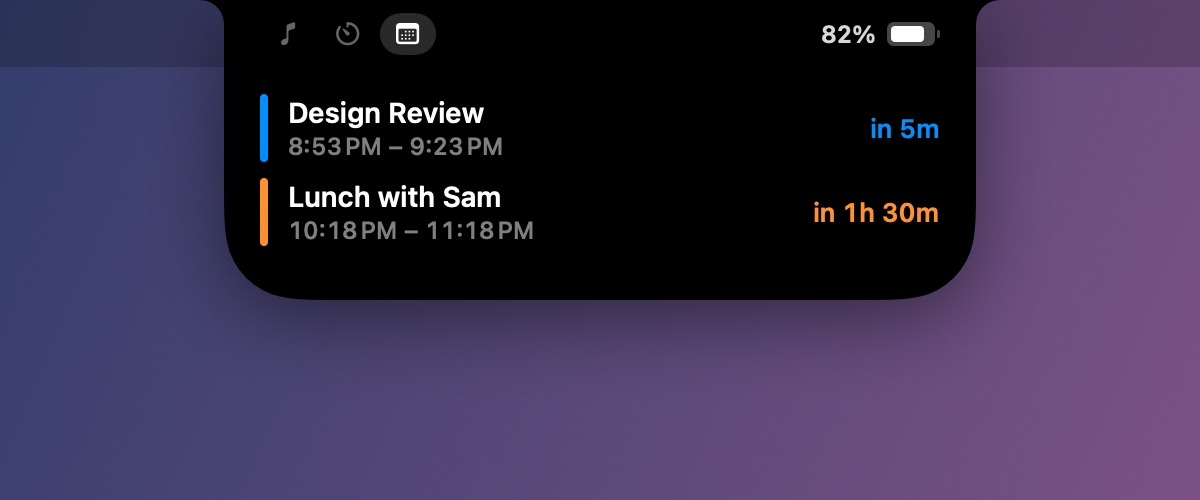
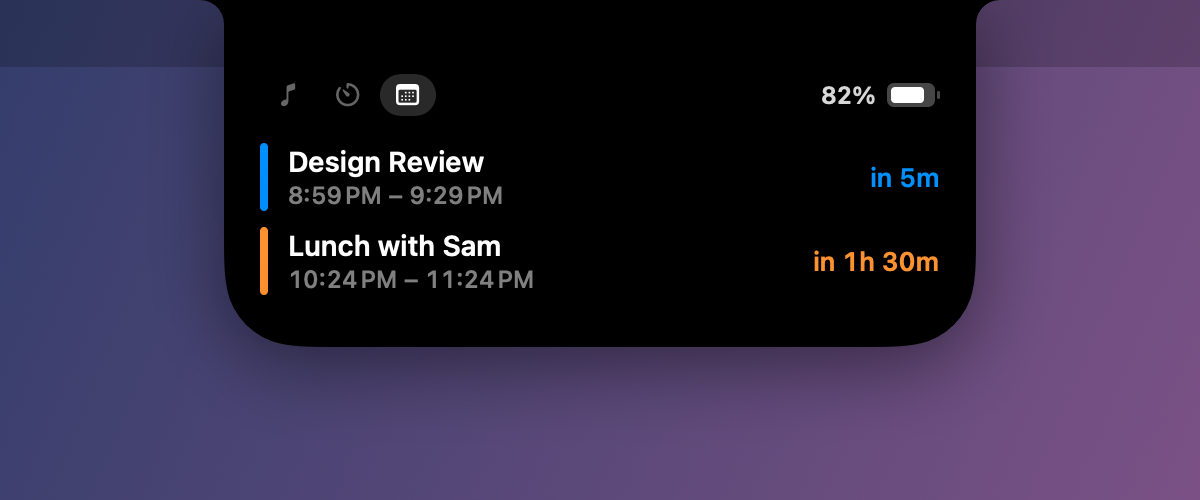
Fix notch collisions; add floating pill style and two build variants
Expanded content now sits fully below the notch (the title and third tab
were colliding with it). New floating pill style for Macs without a
notch. make release builds DynamicIsland-Notch.zip and
DynamicIsland-NoNotch.zip.

diff --git a/Sources/DynamicIsland/App/IslandController.swift b/Sources/DynamicIsland/App/IslandController.swift
@@ -49,6 +49,9 @@ final class IslandController {
         reposition()
         panel.orderFrontRegardless()
 
+        NotificationCenter.default.addObserver(forName: Prefs.didChange, object: nil, queue: .main) { [weak self] _ in
+            self?.reposition()
+        }
         NotificationCenter.default.addObserver(forName: NSApplication.didChangeScreenParametersNotification,
                                                object: nil, queue: .main) { [weak self] _ in
             self?.reposition()
@@ -73,13 +76,14 @@ final class IslandController {
 
     /// The built-in (notched) display wins; otherwise the main display.
     private func preferredScreen() -> NSScreen? {
-        NSScreen.screens.first { $0.safeAreaInsets.top > 0 } ?? NSScreen.main ?? NSScreen.screens.first
+        if Prefs.pillStyle { return NSScreen.main ?? NSScreen.screens.first }
+        return NSScreen.screens.first { $0.safeAreaInsets.top > 0 } ?? NSScreen.main ?? NSScreen.screens.first
     }
 
     private func reposition() {
         guard let screen = preferredScreen() else { return }
         self.screen = screen
-        viewModel.geometry = NotchGeometry(screen: screen)
+        viewModel.geometry = Prefs.pillStyle ? .pill(on: screen) : NotchGeometry(screen: screen)
         let f = screen.frame
         let size = Self.panelSize
         panel.setFrame(NSRect(x: f.midX - size.width / 2,
@@ -93,8 +97,10 @@ final class IslandController {
         guard let screen else { return nil }
         let f = screen.frame
         let size = viewModel.size
-        var rect = NSRect(x: f.midX - size.width / 2, y: f.maxY - size.height,
-                          width: size.width, height: size.height + 2) // +2: include the very top pixel row
+        let inset = viewModel.geometry.topInset
+        var rect = NSRect(x: f.midX - size.width / 2, y: f.maxY - inset - size.height,
+                          width: size.width, height: size.height + inset + 2) // reach the top edge
+        if !viewModel.isVisible { rect = rect.insetBy(dx: -40, dy: 0) } // hidden pill: easier to find
         rect = viewModel.isExpanded ? rect.insetBy(dx: -4, dy: -4) : rect.insetBy(dx: -10, dy: -6)
         return rect
     }
@@ -114,14 +120,25 @@ final class IslandController {
 }
 
 struct NotchGeometry: Equatable {
+    /// With a notch: the camera housing. Without: the resting size of the floating pill.
     var notchSize: CGSize
+    /// true = attached to the hardware notch. false = free-floating pill (iPhone style).
     var hasNotch: Bool
+    /// Gap between the top of the screen and the island (pill style only).
+    var topInset: CGFloat = 0
 
-    static let fallback = NotchGeometry(notchSize: CGSize(width: 185, height: 32), hasNotch: false)
+    static let pillSize = CGSize(width: 56, height: 30)
+    static let fallback = NotchGeometry(notchSize: pillSize, hasNotch: false, topInset: 5)
 
-    init(notchSize: CGSize, hasNotch: Bool) {
+    init(notchSize: CGSize, hasNotch: Bool, topInset: CGFloat = 0) {
         self.notchSize = notchSize
         self.hasNotch = hasNotch
+        self.topInset = topInset
+    }
+
+    /// Floating pill. On a notched screen it sits just below the notch.
+    static func pill(on screen: NSScreen) -> NotchGeometry {
+        NotchGeometry(notchSize: pillSize, hasNotch: false, topInset: screen.safeAreaInsets.top + 5)
     }
 
     init(screen: NSScreen) {
@@ -130,9 +147,7 @@ struct NotchGeometry: Equatable {
             notchSize = CGSize(width: screen.frame.width - left.width - right.width, height: top)
             hasNotch = true
         } else {
-            let menuBar = screen.frame.maxY - screen.visibleFrame.maxY
-            notchSize = CGSize(width: 185, height: menuBar > 0 ? menuBar : 32)
-            hasNotch = false
+            self = .pill(on: screen)
         }
     }
 }

diff --git a/Sources/DynamicIsland/Views/IslandRootView.swift b/Sources/DynamicIsland/Views/IslandRootView.swift
@@ -10,6 +10,7 @@ struct IslandRootView: View {
     var body: some View {
         VStack(spacing: 0) {
             island
+                .padding(.top, vm.geometry.topInset)
             Spacer(minLength: 0)
         }
         .frame(maxWidth: .infinity, maxHeight: .infinity, alignment: .top)
@@ -17,7 +18,8 @@ struct IslandRootView: View {
 
     private var island: some View {
         let size = vm.size
-        let shape = NotchShape(topRadius: vm.topRadius, bottomRadius: vm.bottomRadius)
+        let shape = NotchShape(topRadius: vm.topRadius, bottomRadius: vm.bottomRadius,
+                               floating: !vm.geometry.hasNotch)
 
         return ZStack(alignment: .top) {
             if vm.isExpanded {
@@ -53,7 +55,7 @@ struct IslandRootView: View {
     @ViewBuilder private var musicElements: some View {
         if vm.showsMusicElements {
             let m = MusicLayout(expanded: vm.isExpanded, notchHeight: vm.geometry.notchSize.height,
-                                flare: vm.topRadius)
+                                flare: vm.topRadius, contentTop: vm.contentTop)
             ArtworkView(image: vm.nowPlaying.artwork, radius: m.artRadius)
                 .frame(width: m.artSize, height: m.artSize)
                 .shadow(color: vm.nowPlaying.accent.opacity(vm.isExpanded ? 0.3 : 0), radius: 12)
@@ -77,7 +79,6 @@ struct IslandRootView: View {
 /// Where the shared music elements sit in each state. `ExpandedView` reserves matching gaps.
 struct MusicLayout {
     static let expandedArt: CGFloat = 58
-    static let expandedTop: CGFloat = 14
     static let expandedMargin: CGFloat = 18 // from the island body edge (inside the flare)
     static let waveHeight: CGFloat = 14
 
@@ -89,15 +90,15 @@ struct MusicLayout {
     let waveTrailing: CGFloat
     let waveTop: CGFloat
 
-    init(expanded: Bool, notchHeight: CGFloat, flare: CGFloat) {
+    init(expanded: Bool, notchHeight: CGFloat, flare: CGFloat, contentTop: CGFloat) {
         if expanded {
             artSize = Self.expandedArt
             artRadius = 14
             artLeading = flare + Self.expandedMargin
-            artTop = Self.expandedTop
+            artTop = contentTop
             waveScale = 1.5
             waveTrailing = flare + Self.expandedMargin + 2
-            waveTop = Self.expandedTop + (Self.expandedArt - Self.waveHeight) / 2
+            waveTop = contentTop + (Self.expandedArt - Self.waveHeight) / 2
         } else {
             artSize = 22
             artRadius = 6.5

diff --git a/Sources/DynamicIsland/App/Snapshotter.swift b/Sources/DynamicIsland/App/Snapshotter.swift
@@ -14,7 +14,9 @@ enum Snapshotter {
                               album: "Afterglow", duration: 214, isExplicit: true)
         let art = demoArtwork()
 
-        func shot(_ name: String, _ setup: () -> Void) {
+        let notch = vm.geometry
+        func shot(_ name: String, pill: Bool = false, _ setup: () -> Void) {
+            vm.geometry = pill ? NotchGeometry(notchSize: NotchGeometry.pillSize, hasNotch: false, topInset: 5) : notch
             vm.timer.cancel()
             vm.nowPlaying.applyDemo(track: nil, playing: false, artwork: nil, position: 0)
             vm.battery.applyDemo(level: 82, charging: false)
@@ -28,6 +30,12 @@ enum Snapshotter {
                                startPoint: .topLeading, endPoint: .bottomTrailing)
                 Rectangle().fill(Color.black.opacity(0.18)).frame(height: 33.5) // menu bar
                 IslandRootView(vm: vm)
+                if ProcessInfo.processInfo.environment["SHOW_NOTCH"] != nil {
+                    // Debug: draw where the physical camera housing sits, to spot collisions.
+                    UnevenRoundedRectangle(cornerRadii: .init(bottomLeading: 9, bottomTrailing: 9))
+                        .fill(Color(red: 0.45, green: 0.05, blue: 0.05))
+                        .frame(width: 185, height: 33.5)
+                }
             }
             .frame(width: 600, height: 250)
             .transaction { $0.animation = nil; $0.disablesAnimations = true }
@@ -102,6 +110,21 @@ enum Snapshotter {
         }
         shot("16-caps-lock") {
             vm.applyDemo(expanded: false, transient: .capsOn, tab: .media)
+        }
+        shot("20-pill-compact-music", pill: true) {
+            vm.nowPlaying.applyDemo(track: track, playing: true, artwork: art, position: 62)
+        }
+        shot("21-pill-expanded-music", pill: true) {
+            vm.nowPlaying.applyDemo(track: track, playing: true, artwork: art, position: 62)
+            vm.applyDemo(expanded: true, transient: nil, tab: .media)
+        }
+        shot("22-pill-expanded-timer", pill: true) {
+            vm.timer.start(seconds: 1500)
+            vm.applyDemo(expanded: true, transient: nil, tab: .timer)
+        }
+        shot("23-pill-charging", pill: true) {
+            vm.battery.applyDemo(level: 82, charging: true)
+            vm.applyDemo(expanded: false, transient: .charging, tab: .media)
         }
         shot("10-nothing-playing") {
             vm.applyDemo(expanded: true, transient: nil, tab: .media)

diff --git a/Sources/DynamicIsland/Views/ExpandedView.swift b/Sources/DynamicIsland/Views/ExpandedView.swift
@@ -11,9 +11,11 @@ struct ExpandedView: View {
             if vm.tab == .media, let track = vm.nowPlaying.track {
                 MediaPlayerView(np: vm.nowPlaying, track: track, showTimer: { vm.tab = .timer },
                                 timerActive: vm.timer.isActive)
+                    .padding(.top, vm.contentTop)
             } else {
                 VStack(spacing: 0) {
                     header
+                        .padding(.top, vm.contentTop - 4)
                     Group {
                         switch vm.tab {
                         case .media: NothingPlayingView(np: vm.nowPlaying)
@@ -30,20 +32,14 @@ struct ExpandedView: View {
         .frame(width: vm.expandedSize.width, height: vm.expandedSize.height, alignment: .top)
     }
 
-    /// Strip beside the camera: tabs on the left, battery on the right.
+    /// Tabs on the left, battery on the right.
     private var header: some View {
         HStack(spacing: 0) {
             TabSwitcher(selection: $vm.tab)
-                .frame(maxWidth: .infinity, alignment: .leading)
-            if vm.geometry.hasNotch {
-                Color.clear.frame(width: vm.geometry.notchSize.width)
-            } else {
-                ClockLabel().frame(width: vm.geometry.notchSize.width)
-            }
+            Spacer(minLength: 0)
             BatteryHeader(battery: vm.battery)
-                .frame(maxWidth: .infinity, alignment: .trailing)
         }
-        .frame(height: vm.geometry.notchSize.height)
+        .frame(height: 24)
     }
 }
 
@@ -86,16 +82,6 @@ private struct BatteryHeader: View {
     }
 }
 
-private struct ClockLabel: View {
-    var body: some View {
-        TimelineView(.everyMinute) { ctx in
-            Text(ctx.date, format: .dateTime.hour().minute())
-                .font(.system(size: 12, weight: .semibold).monospacedDigit())
-                .foregroundStyle(.white.opacity(0.7))
-        }
-    }
-}
-
 // MARK: - Media
 
 /// Same arrangement as the iPhone's expanded Now Playing: art top-left, waveform top-right,
@@ -133,7 +119,6 @@ struct MediaPlayerView: View {
                 .padding(.bottom, 2)
                 Spacer(minLength: 34) // waveform lives here
             }
-            .padding(.top, MusicLayout.expandedTop)
 
             ProgressRow(np: np, duration: track.duration)
                 .padding(.top, 9)

diff --git a/Sources/DynamicIsland/App/IslandViewModel.swift b/Sources/DynamicIsland/App/IslandViewModel.swift
@@ -172,12 +172,23 @@ final class IslandViewModel: ObservableObject {
         LayoutKey(expanded: isExpanded, compact: compactKind, bubble: showsTimerBubble, music: showsMusicElements, tab: tab, visible: isVisible)
     }
 
-    var topRadius: CGFloat { isExpanded ? 12 : 6 }
-    var bottomRadius: CGFloat { isExpanded ? 38 : (compactKind == nil ? 10 : 14) }
+    private var pill: Bool { !geometry.hasNotch }
 
-    /// Apple's expanded island is ~371-408 pt wide and at most 160 pt tall (HIG, Live Activities).
+    /// Concave flares only make sense when attached to the top edge.
+    var topRadius: CGFloat { pill ? 0 : (isExpanded ? 12 : 6) }
+    var bottomRadius: CGFloat {
+        if isExpanded { return 38 }
+        if pill { return geometry.notchSize.height / 2 } // capsule
+        return compactKind == nil ? 10 : 14
+    }
+
+    /// Where expanded content starts. A MacBook notch is wide (185 pt of a 400 pt island), so
+    /// content goes fully below it; the floating pill has no camera to avoid.
+    var contentTop: CGFloat { pill ? 14 : geometry.notchSize.height + 6 }
+
+    /// Apple's expanded island is ~371-408 pt wide and up to 160 pt tall (HIG, Live Activities).
     var expandedSize: CGSize {
-        CGSize(width: 400, height: max(150, geometry.notchSize.height + 112))
+        CGSize(width: 400, height: contentTop + 134)
     }
 
     /// Album art + waveform stay on screen and glide between compact and expanded.
@@ -204,7 +215,7 @@ final class IslandViewModel: ObservableObject {
 
     func compactSize(_ kind: CompactKind) -> CGSize {
         let n = geometry.notchSize
-        return CGSize(width: n.width + 2 * earWidth(kind) + 2 * 6, height: n.height)
+        return CGSize(width: n.width + 2 * earWidth(kind) + 2 * topRadius, height: n.height)
     }
 
     var size: CGSize {

diff --git a/Sources/DynamicIsland/App/Main.swift b/Sources/DynamicIsland/App/Main.swift
@@ -53,6 +53,7 @@ final class AppDelegate: NSObject, NSApplicationDelegate {
         menu.addItem(title)
         menu.addItem(.separator())
 
+        menu.addItem(toggleItem("Floating Pill Style (No Notch)", key: Prefs.pillStyleKey))
         menu.addItem(toggleItem("Expand on Hover", key: Prefs.expandOnHover))
         menu.addItem(toggleItem("Haptic Feedback", key: Prefs.haptics))
         menu.addItem(toggleItem("Show Volume HUD", key: Prefs.volumeHUD))
@@ -124,6 +125,10 @@ enum Prefs {
     static let pauseOthers = "pauseOtherAudio"
 
     static let didChange = Notification.Name("DynamicIslandPrefsDidChange")
+    static let pillStyleKey = "floatingPillStyle"
+
+    /// Floating pill instead of hugging the notch. The "No Notch" download turns this on by default.
+    static var pillStyle: Bool { bool(pillStyleKey) }
 
     static func registerDefaults() {
         UserDefaults.standard.register(defaults: [
@@ -136,6 +141,7 @@ enum Prefs {
             deviceAlerts: true,
             privacyIndicator: true,
             systemAlerts: true,
+            pillStyleKey: (Bundle.main.object(forInfoDictionaryKey: "DIDefaultStyle") as? String) == "pill",
             pauseOthers: true,
         ])
     }

diff --git a/Sources/DynamicIsland/Views/Components.swift b/Sources/DynamicIsland/Views/Components.swift
@@ -6,6 +6,8 @@ import SwiftUI
 struct NotchShape: Shape {
     var topRadius: CGFloat
     var bottomRadius: CGFloat
+    /// Free-floating (no notch): round all four corners like the iPhone's island.
+    var floating = false
 
     var animatableData: AnimatablePair<CGFloat, CGFloat> {
         get { AnimatablePair(topRadius, bottomRadius) }
@@ -13,6 +15,10 @@ struct NotchShape: Shape {
     }
 
     func path(in rect: CGRect) -> Path {
+        if floating {
+            let r = max(0, min(bottomRadius, rect.height / 2, rect.width / 2))
+            return RoundedRectangle(cornerRadius: r, style: .continuous).path(in: rect)
+        }
         let t = max(0, min(topRadius, rect.width / 4, rect.height / 2))
         let b = max(0, min(bottomRadius, rect.height, (rect.width - 2 * t) / 2))
         // Body: Apple's "continuous" (squircle) corners at the bottom, square at the top.

diff --git a/Sources/DynamicIsland/Views/CompactView.swift b/Sources/DynamicIsland/Views/CompactView.swift
@@ -17,7 +17,7 @@ struct CompactView: View {
                 .frame(width: ear - 10, alignment: .trailing)
                 .padding(.trailing, 10)
         }
-        .padding(.horizontal, 6)
+        .padding(.horizontal, vm.topRadius)
         .frame(width: vm.compactSize(kind).width, height: vm.geometry.notchSize.height)
     }
 

diff --git a/progress.md b/progress.md
@@ -5,7 +5,7 @@ Update this file at the end of every work session.
 
 ---
 
-## Status: v1.1 in progress (2026-11-15). v1.0.0 is tagged and public on GitHub
+## Status: v1.1.0 released (2026-11-15) with Notch and NoNotch downloads
 
 ### Done
 - [x] Swift Package app (SwiftUI + AppKit), builds with **Command Line Tools only** (no Xcode needed)
@@ -53,7 +53,11 @@ Update this file at the end of every work session.
   - All of these are **untested with real events/devices**; only the rendering is verified
   - Not possible: reading the iPhone's Live Activities (no API)
 
+- [x] **Two variants** (v1.1.0): `DynamicIsland-Notch.zip` and `DynamicIsland-NoNotch.zip`, built by `make release`. Same code; the only difference is the Info.plist key `DIDefaultStyle` (`auto` / `pill`), which sets the default of the "Floating Pill Style" menu toggle
+- [x] **Floating pill style** for Macs without a notch: capsule detached from the top edge, all four corners rounded when expanded, hidden when idle. On a notched screen it sits just below the notch
+
 ### Fixes
+- **2026-11-15 · Notch collisions.** At 400 pt wide the island left only ~77 pt beside the 185 pt notch: the title sat jammed under it and the third tab was hidden behind it. Expanded content now starts fully below the notch (`contentTop`). Found by drawing the notch into snapshots: `SHOW_NOTCH=1 DynamicIsland --snapshot <dir>`.
 - **2026-11-15 · Play/pause flicker + Next pausing the song.** Causes: (1) the button flipped optimistically, then a status query that started *before* the click came back with the old state and flipped it back; (2) `next track` can leave Music paused, and Music briefly reports "Paused" mid-skip. Fix in `NowPlayingService`: explicit `play`/`pause` instead of the `playpause` toggle; a command generation counter that drops stale query results; a short "expected state" window that trusts the user's click over transitional reports; skip resumes playback if it was playing; distributed-notification `Player State` applied instantly.
 
 ### Not yet verified on device

diff --git a/README.md b/README.md
@@ -29,9 +29,23 @@ Other details:
 - On Macs without a notch it shows as a floating pill at the top of the screen
 - Menu bar icon with settings: hover-to-expand, haptics, volume HUD, battery alerts, and Launch at Login
 
-## Install
+## Download
 
-Requires **macOS 14.2 or later** on Apple silicon, plus the Xcode Command Line Tools (`xcode-select --install`). You don't need the full Xcode.
+Get the one that matches your Mac from the [latest release](https://github.com/captivcopystudio-byte/dynamic-island-mac/releases/latest):
+
+| Your Mac | Download | What you get |
+|---|---|---|
+| **Has a notch** (MacBook Air 2022+, MacBook Pro 14"/16") | `DynamicIsland-Notch.zip` | The island grows out of the notch |
+| **No notch** (older MacBooks, iMac, Mac mini, external displays) | `DynamicIsland-NoNotch.zip` | A floating pill at the top of the screen, like iPhone |
+
+![Notch style](docs/screenshots/03-expanded-music.png)
+![No-notch pill style](docs/screenshots/21-pill-expanded-music.png)
+
+Unzip, drag **Dynamic Island** to Applications, then right-click it and choose **Open** the first time (the app isn't notarized). Requires **macOS 14.2 or later** on Apple silicon. You can also switch styles any time from the menu bar icon ("Floating Pill Style").
+
+## Build from source
+
+Needs the Xcode Command Line Tools (`xcode-select --install`). You don't need the full Xcode.
 
 ```bash
 git clone https://github.com/captivcopystudio-byte/dynamic-island-mac.git
@@ -43,7 +57,7 @@ Other commands:
 
 ```bash
 make run         # build and run from ./build without installing
-make app         # just build build/Dynamic Island.app
+make release     # build both downloads (Notch + NoNotch zips) into build/release
 make clean
 ```
 
